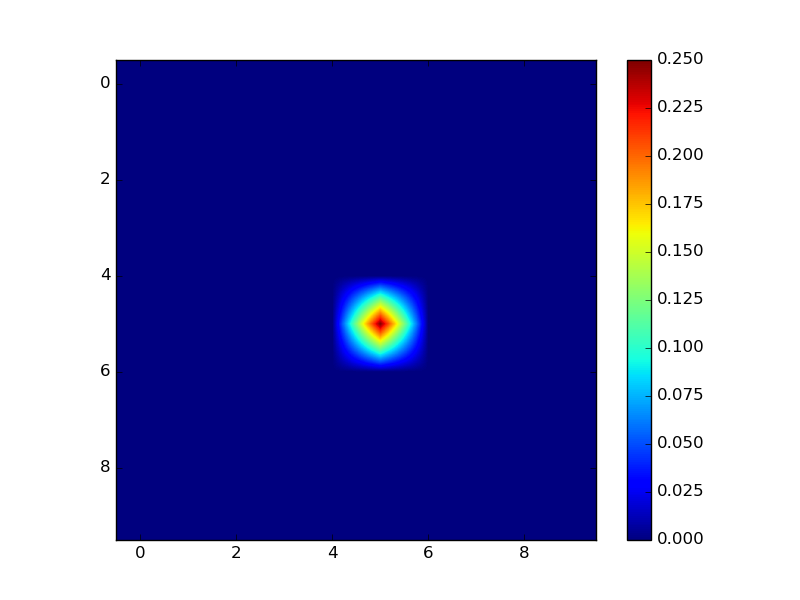
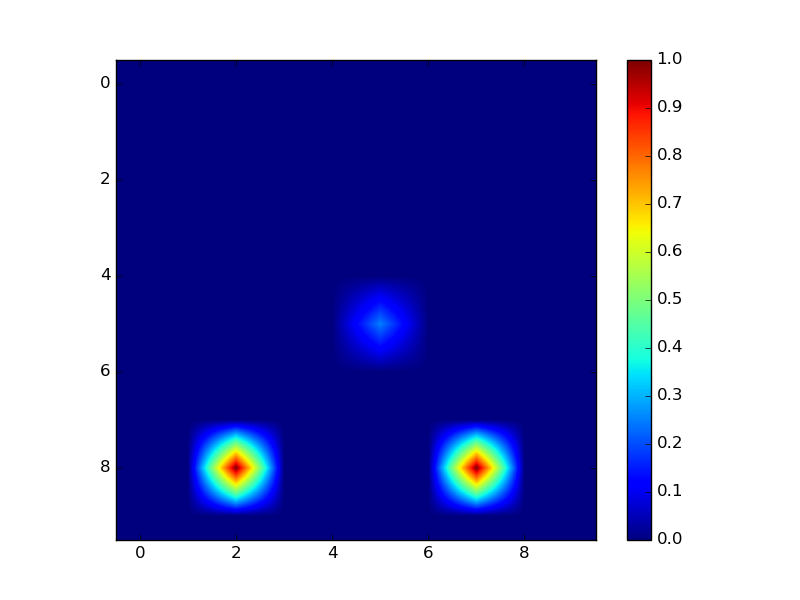
Animation work

diff --git a/Mapping/Animate/animate.py b/Mapping/Animate/animate.py
@@ -8,28 +8,38 @@ init = np.zeros((10,10))
 init[5][5]= 1
 fig = plt.figure()
 ax1 = fig.add_subplot(1,1,1)
+init = init.tolist()
 plt.imshow(init)
 plt.colorbar()
-
+working=0
 
 def animate(i):
+
+
+    k=0
     data = open('frames.txt','r').read()
     lines = data.split('$')
     lines.pop()
-    img = []
+    img = [init]
     for line in lines:
         image = np.fromstring(line, dtype=float, sep=',')
 
         image = image.reshape(10,10)
         a = image.tolist()
         img.append(a)
-        print("\n\n",img)
+        k=len(img)-1
 
+        print(img)
 
 
     ax1.clear()
-    plt.imshow(img[i])
-    plt.title('Live graph with matplotlib')
+    if i<k:
+        plt.imshow(img[i])
+    elif i>=k:
+        plt.imshow(img[k-1])
+
+    working=i
+
 
 
 ani = animation.FuncAnimation(fig, animate, interval=1000)

diff --git a/Mapping/main.py b/Mapping/main.py
@@ -33,11 +33,14 @@ plot.setupPath(path)
 animate_path = "Animate/dim="+str(dim)+"_pos=" +  str(pos)
 plot.setupPath(animate_path)
 open('Animate/frames.txt', 'w+').close()
+open('produced_map.txt', 'w+').close()
+input()
+
 for i in range(turns):
     # Simulate measurement and feed them into LiMap
-    simMeasure = lidar.simulate(show=False,noise=False)
+    simMeasure = lidar.simulate(show=False,noise=True,uPos=10)
     carte = map.processLidarData(simMeasure, carte, pos, dim)
-    frames.make_frame(carte)
+    frames.make_frame(expit(carte))
     #plot.plotData(expit(carte), "Produced-Map{}".format(i),animate_path)
 
 #Process the data
